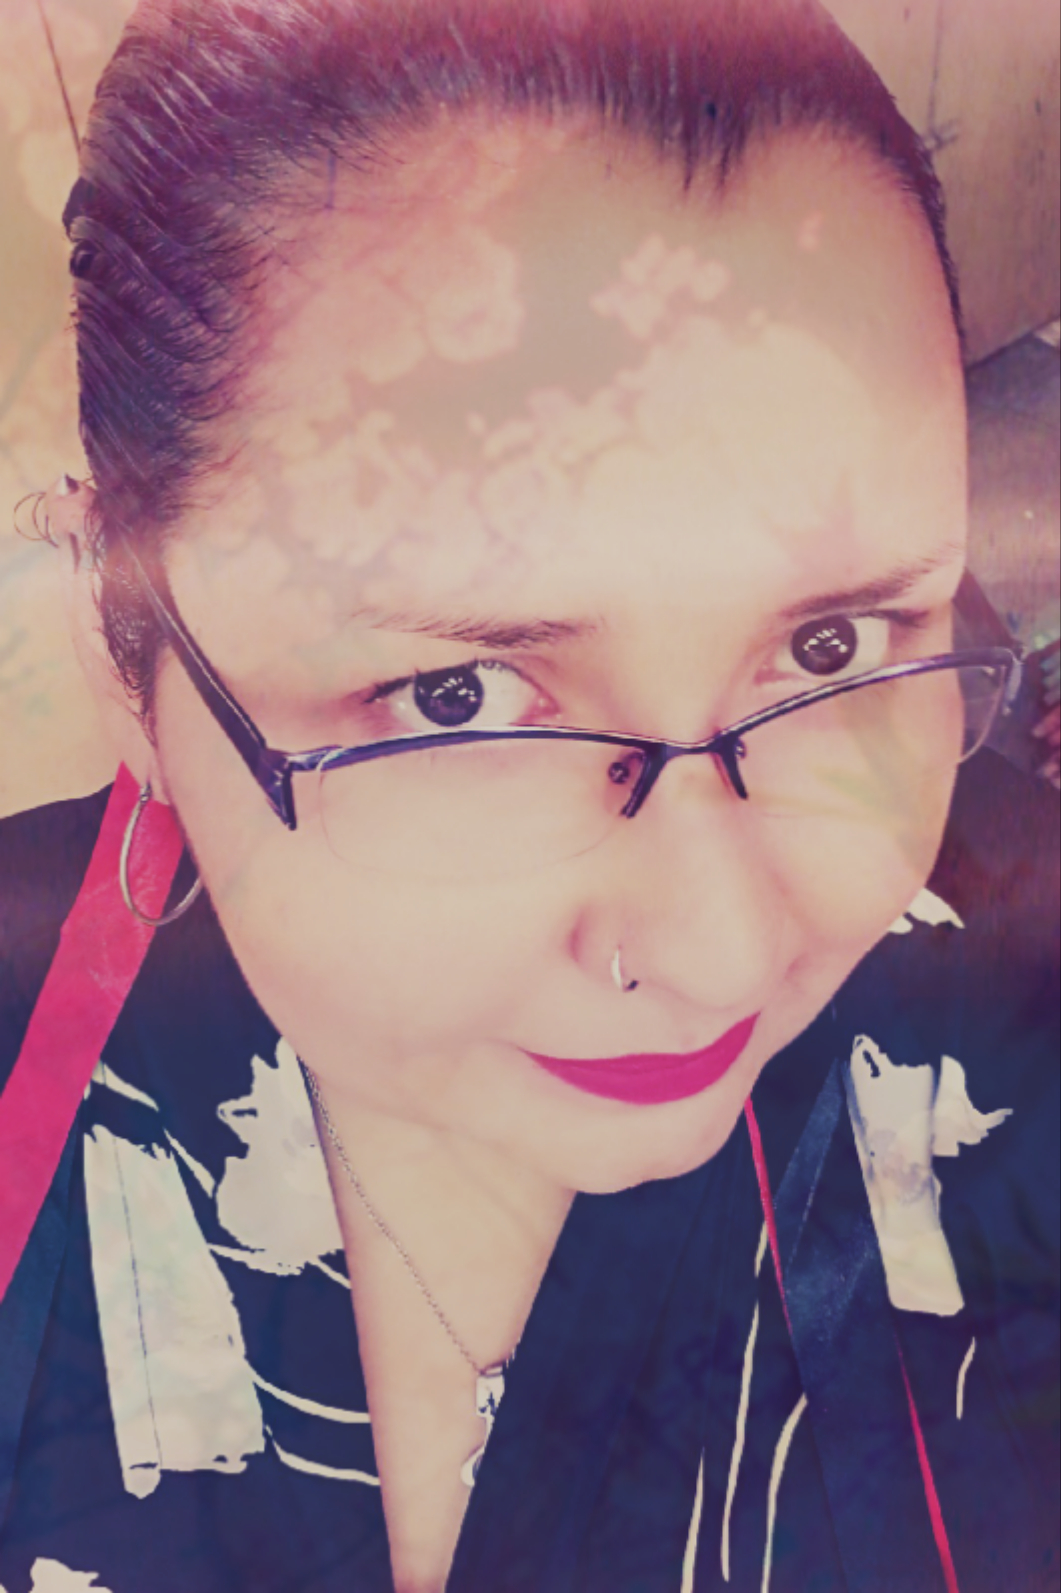
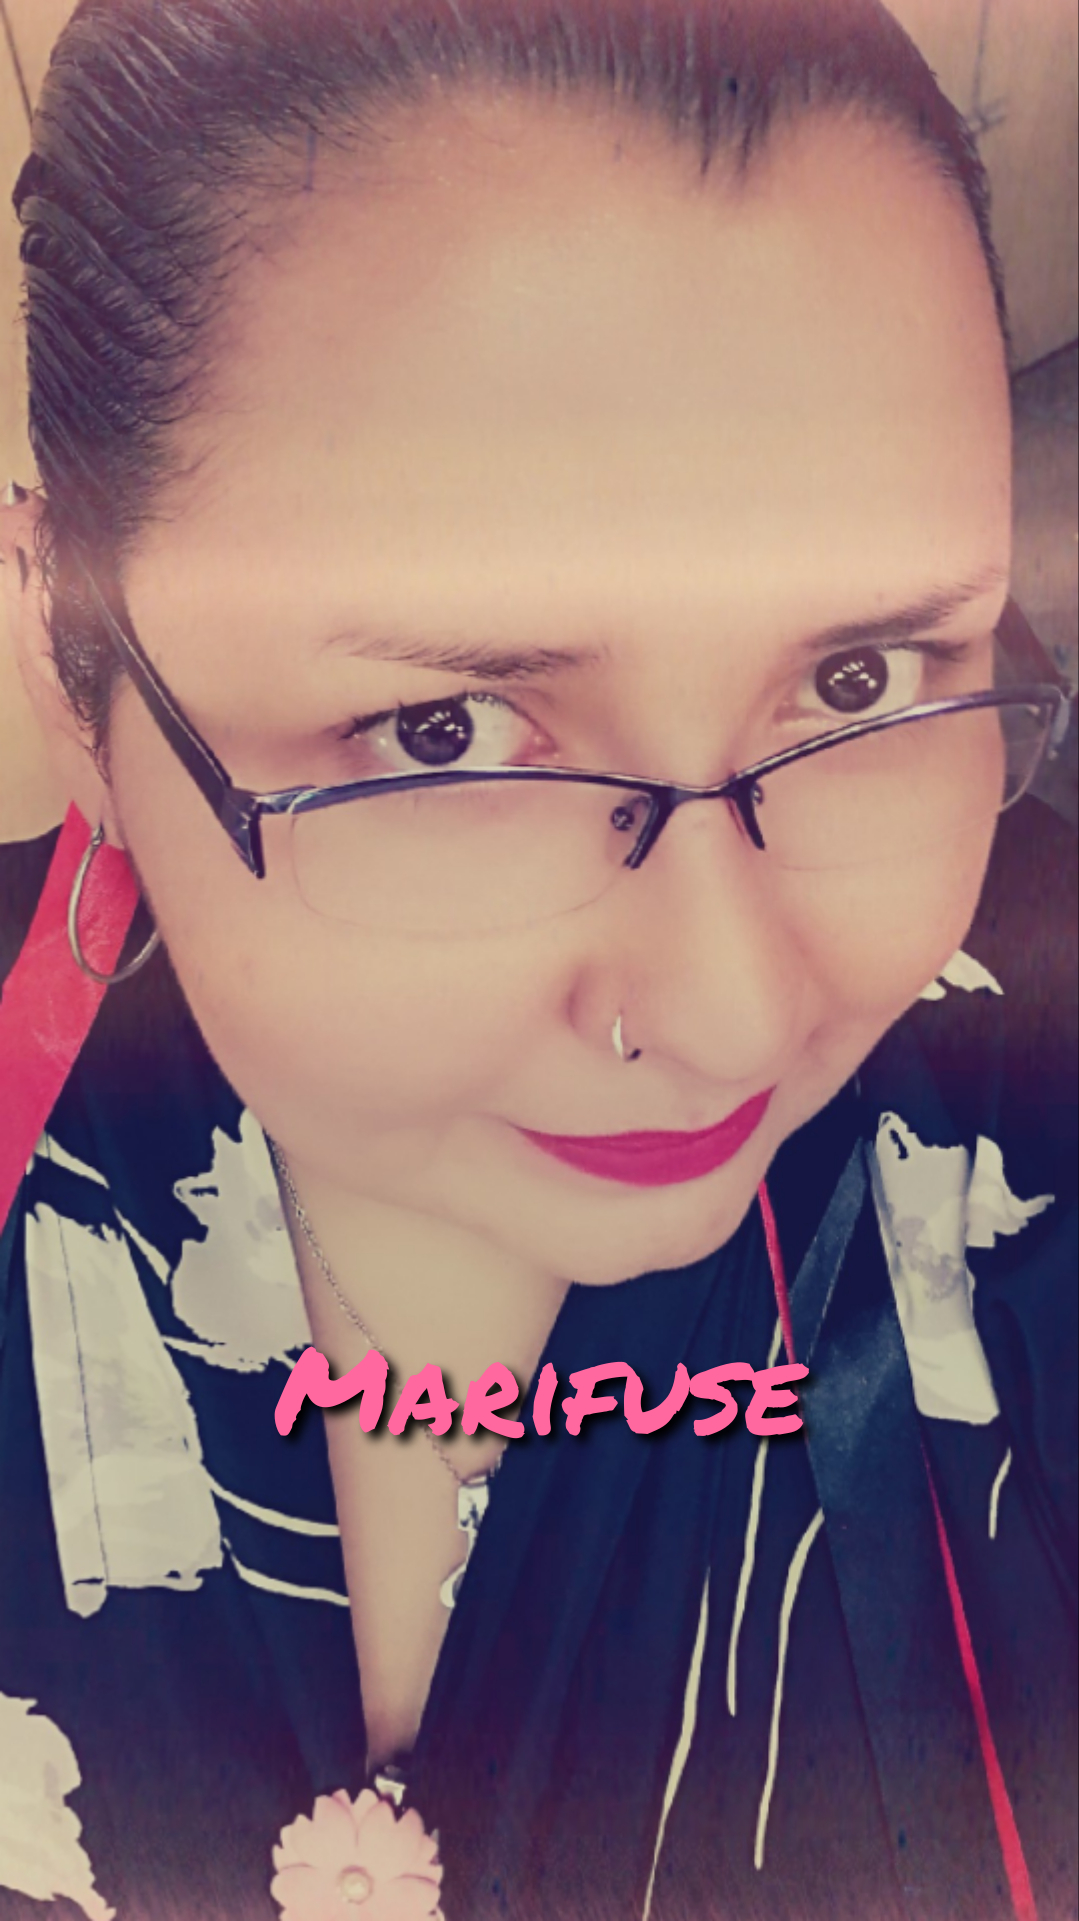
Septimo avance con modificaciones en los Media Querys

diff --git a/assets/css/style.css b/assets/css/style.css
@@ -138,7 +138,7 @@ body {
 }
 
 /* Media Querys */
-@media (min-width: 400px) and (max-width: 575px) {
+@media (min-width: 400px) and (max-width: 573px) {
   /* NAVBAR */
   .ml-auto {
     text-align: center;
@@ -146,16 +146,17 @@ body {
   .navbar-brand {
     font-size: 1em;
   }
-  /* JOMBOTRON CON IMAGEN */
+  /* JUMBOTRON CON IMAGEN */
+  .my-photo {
+    background-image: url('../img/header-mobile.jpg');
+    background-repeat: no-repeat;
+    background-size: cover;
+    width: 100%;
+    height: 48em;
+    z-index: auto;
+  }
   .jumbotron {
-    margin: 0;
-  }
-  .my-text {
-    padding-top: 0.5em;
-    padding-bottom: 0.5em;
-  }
-  .my-text h3 {
-    font-size: 1em;
+    display: none;
   }
   /* SECCIÓN SOBRE MÍ */
   .about-me {
@@ -164,12 +165,16 @@ body {
   /* SECCIÓN EXPERIENCIAS */
   .experience-title h1 {
     font-size: 1.5em;
+    padding-bottom: 2em;
   }
   .icons-table {
     display: block;
     justify-content: space-around;
     text-align: center;
     padding-top: 1em;
+  }
+  .icons-1 {
+    padding-bottom: 2em;
   }
   /* SECCIÓN CARDS */
   .cards-section h1 {
@@ -192,7 +197,22 @@ body {
   }
 }
 @media (min-width: 576px) and (max-width: 800px) {
+  /* JUMBOTRON CON IMAGEN */
+  .my-text {
+    padding-top: 0.5em;
+    padding-bottom: 0.5em;
+  }
+  .my-text h3 {
+    font-size: 1em;
+  }
+  /* SECCIÓN SOBRE MI */
+  .about-me h1 {
+    font-size: 1.5em;
+  }
   /* SECCIÓN EXPERIENCIAS */
+  .experience-title h1 {
+    font-size: 1.5em;
+  }
   .icons-table {
     display: block;
     justify-content: space-around;
@@ -200,6 +220,9 @@ body {
     padding-top: 1em;
   }
   /* SECCIÓN CARDS */
+  .cards-section h1 {
+    font-size: 1.5em;
+  }
   .card-deck {
     display: block !important;
   }

diff --git a/index.html b/index.html
@@ -44,8 +44,8 @@
       </div>
     </nav>
     <!-- Sección Header -->
-    <header class="my-photo">
-      <div class="jumbotron jumbotron-fluid">
+    <header class="container-fluid my-photo p-0">
+      <div class="jumbotron jumbotron-fluid col-sm-12">
         <img src="assets/img/header.jpg" alt="My-Photo">
         <div class="my-text">
           <h3 class="display-6">YO SOY</h3>
@@ -53,6 +53,7 @@
         </div>
       </div>
     </header>
+    <!-- Sección Sobre Mí -->
     <section class="about-me p-5 col-md-12 col-lg-12">
       <h1>SOBRE MÍ</h1>
       <div class="container-fluid paragraphs pb-4">
@@ -153,8 +154,8 @@
         <div class="text-inscription">
           <h5 class="pb-5">¿Quieres conocer más de mí?</h5>
         </div>
-          <button type="button" class="btn btn-danger" data-toggle="popover" title="Mi Correo Electrónico y Teléfono" data-content="maria.fuenzalida.serrano@gmail.com
-          +5691234567">Comenzar</button>
+          <button type="button" class="btn btn-danger" data-toggle="popover" data-placement="bottom" title="Mi Correo Electrónico y Teléfono"
+          data-content="maria.fuenzalida.serrano@gmail.com +5691234567">Comenzar</button>
       </div>
     </section>
     <!-- Cierre Footer -->
